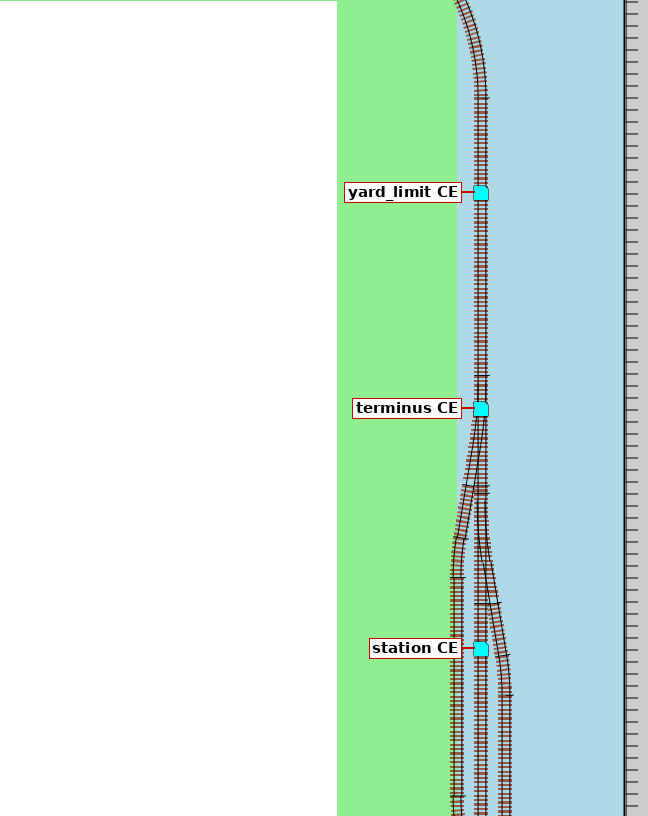
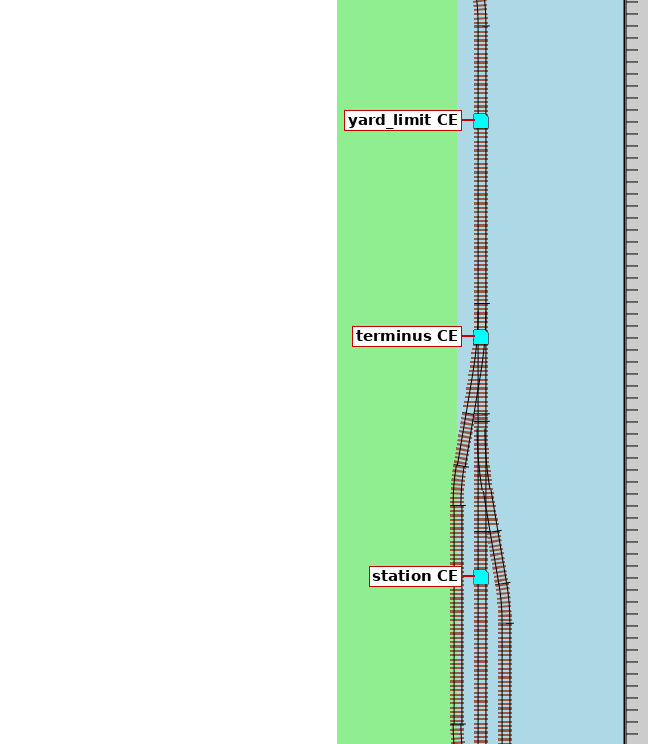
mcp: the Hillside tutorial as a PDF, and a rolling latest-mcp prerelease
docs/build_tutorial_pdf.py builds one PDF from Part 1, Part 2 and the
conventions spec (as an appendix, so the tutorial's [4.3] references stay
in the document), with the screenshots, a contents page and captions;
links to files outside it point at the commit on GitHub. pandoc comes
from the pypandoc_binary wheel, weasyprint from PyPI.

ci-mcp.yml builds it in a new tutorial-pdf job (an artifact, never
committed). release-mcp.yml attaches it to tag releases, and now also
runs on a push to main that changes mcp/: it builds <version>.dev<run>
and replaces the rolling latest-mcp prerelease (never marked Latest)
with the wheel, sdist and PDF. ci-mcp.yml leaves main to it, so tests
don't run twice. The Cedar yard-limit screenshot loses a stray strip of
the north shelf.

diff --git a/mcp/docs/build_tutorial_pdf.py b/mcp/docs/build_tutorial_pdf.py
@@ -1,0 +1,102 @@
+"""Build the Hillside tutorial as one PDF.
+
+Part 1 (layout-config-guide.md), Part 2 (operating-conventions-tutorial.md)
+and, as an appendix, the Operating Data Conventions they cite
+(operating-conventions.md), with the screenshots. The Markdown files stay
+the source; the PDF is built by CI (ci-mcp.yml) and attached to the MCP
+releases, never committed.
+
+    uv run --no-project --with pypandoc_binary --with weasyprint \\
+        python mcp/docs/build_tutorial_pdf.py OUT.pdf [--link-base URL] [--version V]
+
+--link-base: where links to files outside the PDF point (the schema, the
+README), e.g. <server>/<repo>/blob/<commit>/mcp/docs. Left out, they stay
+relative.
+"""
+
+from __future__ import annotations
+
+import argparse
+import datetime
+import re
+from pathlib import Path
+
+DOCS = Path(__file__).resolve().parent
+PARTS = [  # file, id, heading prefix
+    ("layout-config-guide.md", "part-1", "Part 1: "),
+    ("operating-conventions-tutorial.md", "part-2", "Part 2: "),
+    ("operating-conventions.md", "appendix", "Appendix: "),
+]
+INSIDE = {file: f"#{ident}" for file, ident, _ in PARTS}
+
+CSS = """
+@page { size: Letter; margin: 2cm 1.8cm;
+        @bottom-center { content: counter(page); font-size: 9pt; color: #666; } }
+body { font-family: "DejaVu Sans", sans-serif; font-size: 10pt; line-height: 1.4; }
+h1 { page-break-before: always; font-size: 20pt; border-bottom: 2px solid #335; }
+h2 { font-size: 14pt; margin-top: 1.4em; page-break-after: avoid; }
+h3 { font-size: 11.5pt; page-break-after: avoid; }
+header#title-block-header { page-break-after: always; text-align: center; margin-top: 30%; }
+header#title-block-header h1 { page-break-before: avoid; border: none; font-size: 26pt; }
+nav#TOC { page-break-after: always; }
+nav#TOC ul { list-style: none; padding-left: 1.2em; }
+pre, code { font-family: "DejaVu Sans Mono", monospace; font-size: 8.5pt; }
+pre { white-space: pre-wrap; overflow-wrap: anywhere; background: #f4f4f4;
+      padding: 6px 8px; border-left: 3px solid #bbb; page-break-inside: avoid; }
+table { border-collapse: collapse; margin: 0.6em 0; page-break-inside: avoid; }
+th, td { border: 1px solid #bbb; padding: 3px 6px; font-size: 9pt; vertical-align: top; }
+th { background: #e8e8ee; }
+img { max-width: 100%; max-height: 11cm; display: block; margin: 0.5em auto; }
+figure { margin: 0.8em 0; page-break-inside: avoid; }
+figcaption { text-align: center; font-size: 9pt; color: #444; }
+blockquote { color: #333; border-left: 3px solid #88a; margin-left: 0; padding-left: 10px; }
+a { color: #224; }
+"""
+
+
+def combined_markdown(link_base: str | None) -> str:
+    out = []
+    for file, ident, prefix in PARTS:
+        text = (DOCS / file).read_text(encoding="utf-8")
+        lines = text.splitlines()
+        assert lines[0].startswith("# "), f"{file} must start with its title"
+        lines[0] = f"# {prefix}{lines[0][2:]} {{#{ident}}}"
+        text = "\n".join(lines)
+
+        def link(m):
+            target = m.group(1)
+            if target in INSIDE:
+                return f"]({INSIDE[target]})"
+            if link_base and not re.match(r"[a-z]+:|#|images/", target):
+                return f"]({link_base.rstrip('/')}/{target})"
+            return m.group(0)
+
+        out.append(re.sub(r"\]\(([^)\s]+)\)", link, text))
+    return "\n\n".join(out) + "\n"
+
+
+def main() -> None:
+    ap = argparse.ArgumentParser(description=__doc__.splitlines()[0])
+    ap.add_argument("out")
+    ap.add_argument("--link-base")
+    ap.add_argument("--version", default="")
+    args = ap.parse_args()
+
+    import pypandoc
+    from weasyprint import CSS as WCSS, HTML
+
+    subtitle = "The Hillside tutorial"
+    if args.version:
+        subtitle += f", MCP server {args.version}"
+    html = pypandoc.convert_text(
+        combined_markdown(args.link_base), "html5", format="commonmark_x+implicit_figures",
+        extra_args=["--standalone", "--toc", "--toc-depth=2",
+                    "--metadata", "title=XTrkCAD layouts with the MCP server",
+                    "--metadata", f"subtitle={subtitle}",
+                    "--metadata", f"date={datetime.date.today().isoformat()}"])
+    HTML(string=html, base_url=str(DOCS)).write_pdf(args.out, stylesheets=[WCSS(string=CSS)])
+    print(f"wrote {args.out}")
+
+
+if __name__ == "__main__":
+    main()

diff --git a/mcp/README.md b/mcp/README.md
@@ -55,8 +55,11 @@ uv run --extra dev pytest
 ## CI
 
 `.github/workflows/ci-mcp.yml` runs the tests on Linux (Ubuntu 24.04 and 26.04), macOS and
-Windows on pushes to `main` or `test/**` and PRs into `main` that change `mcp/` or one of the
-two MCP workflows. It's separate from the C application's CI, and the other way round: the
+Windows on pushes to `test/**` and PRs into `main` that change `mcp/` or one of the two MCP
+workflows (on `main`, `release-mcp.yml` runs it). Its `tutorial-pdf` job builds the Hillside
+tutorial as one PDF with `docs/build_tutorial_pdf.py` (pandoc and weasyprint): Part 1, Part 2
+and the conventions spec as an appendix, with the screenshots. The PDF is an artifact, never
+committed; the Markdown stays the source. It's separate from the C application's CI, and the other way round: the
 app's workflows (`ci-gtk3.yml`, `release.yml`, ...) only run for the app's paths, so a change
 only under `mcp/` runs just this one. Python is pinned to 3.14: unpinned, `uv` picked macOS's
 3.15, which `rpds-py`'s PyO3 build can't target yet.
@@ -70,12 +73,18 @@ only under `mcp/` runs just this one. Python is pinned to 3.14: unpinned, `uv` p
 git tag mcp-v0.1.0 && git push origin mcp-v0.1.0
 ```
 
-It runs the tests (it calls `ci-mcp.yml`), checks the tag matches `pyproject.toml`, builds the
-sdist and wheel with `uv build`, and drafts a GitHub Release named "XTrkCAD MCP server
-<version>" with both attached; publish the draft by hand after a look. A trial tag,
+It runs the tests and builds the PDF (it calls `ci-mcp.yml`), checks the tag matches
+`pyproject.toml`, builds the sdist and wheel with `uv build`, and drafts a GitHub Release named
+"XTrkCAD MCP server <version>" with the wheel, the sdist and the tutorial PDF attached; publish
+the draft by hand after a look.
+
+Each merge into `main` that changes `mcp/` also replaces the rolling **`latest-mcp`**
+prerelease (`releases/tag/latest-mcp`) with the same three files, built from that commit. Its
+package version is `<version>.dev<run number>`, which sorts before the release. It's never
+marked "Latest", so the app's releases keep that place. A trial tag,
 `mcp-v0.1.0-test1`, does the whole run and drafts a prerelease; delete the draft and the tag
 afterwards. A dispatch (`gh workflow run release-mcp.yml`) runs the tests and builds the
-package as an artifact without releasing. The app's `release.yml` never publishes the MCP, and its `v*.*.*` tags
+package and PDF as artifacts without releasing. The app's `release.yml` never publishes the MCP, and its `v*.*.*` tags
 don't start this workflow.
 
 `.github/dependabot.yml` has Dependabot open one grouped pull request a week that updates
